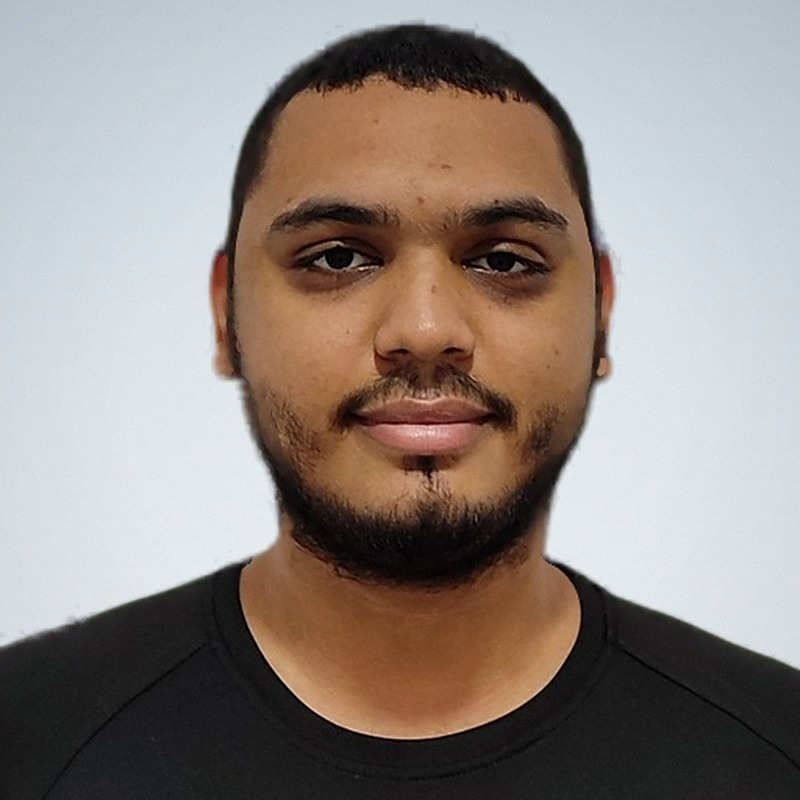
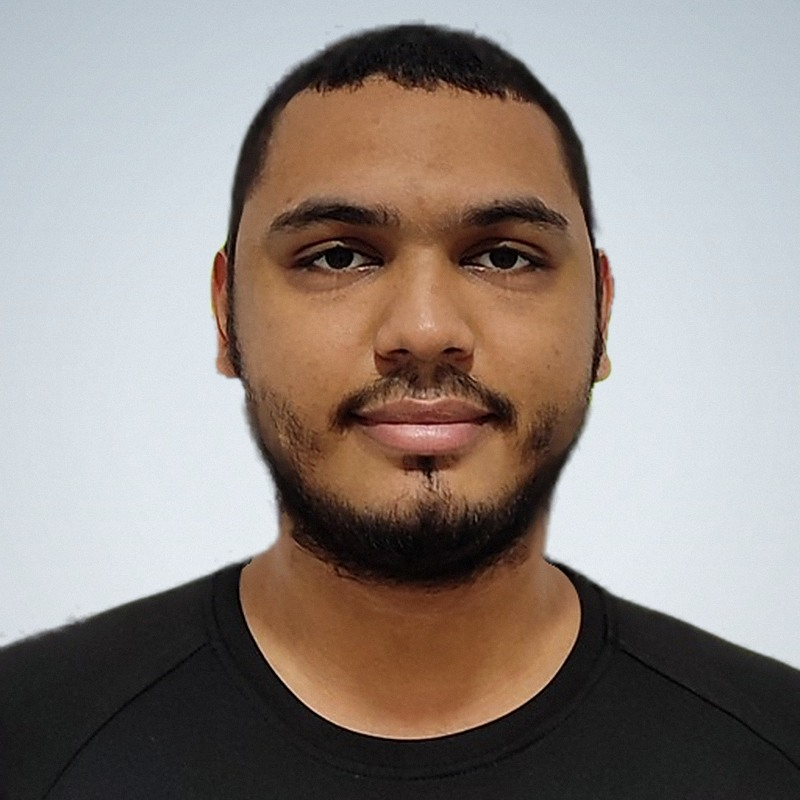
feat: skill years by start date, System/Light/Dark theme selector and retouched profile photo
- Skills: every chip now carries a start date (Jan 1 for fixed ones) so years grow
  automatically each January; exact-date chips (MCP, Claude Code, TypeSafe Jev, WhatsApp
  chatbots) tick on their own anniversary
- Theme: three-option selector (System by default, Light, Dark) with persistence;
  System follows the device live
- Profile photo: sharper ear outlines, softened dark circles and blemishes, right eye
  matched to the left; remove the unused 6 MB original
- Contact area: no functional change

diff --git a/index.html b/index.html
@@ -56,9 +56,11 @@
         </ul>
       </nav>
       <div class="header-actions">
-        <button id="theme-toggle" class="icon-btn" type="button" aria-label="Toggle color theme" data-i18n-aria="toggle_theme">
-          <i class="fas fa-moon icon-moon" aria-hidden="true"></i><i class="fas fa-sun icon-sun" aria-hidden="true"></i>
-        </button>
+        <div id="theme-group" class="theme-group" role="group" aria-label="Color theme" data-i18n-aria="theme_label">
+          <button type="button" data-theme-choice="system" aria-pressed="true" aria-label="System" title="System" data-i18n-aria="theme_system"><i class="fas fa-desktop" aria-hidden="true"></i></button>
+          <button type="button" data-theme-choice="light" aria-pressed="false" aria-label="Light" title="Light" data-i18n-aria="theme_light"><i class="fas fa-sun" aria-hidden="true"></i></button>
+          <button type="button" data-theme-choice="dark" aria-pressed="false" aria-label="Dark" title="Dark" data-i18n-aria="theme_dark"><i class="fas fa-moon" aria-hidden="true"></i></button>
+        </div>
         <select id="lang-switcher" aria-label="Language" data-i18n-aria="lang_label">
           <option value="en" data-i18n="lang_en">English</option>
           <option value="es" data-i18n="lang_es">Spanish</option>
@@ -257,14 +259,14 @@
           </p>
         </div>
         <div class="skills-grid">
-          <div class="skill-category"><h3><i class="fas fa-brain" aria-hidden="true"></i> <span data-i18n="ai_tools">AI-Assisted Tools</span></h3><ul class="chips"><li class="skill-chip level-advanced"><span class="skill-name">GitHub Copilot</span><span class="skill-years">2 <span data-i18n="years">years</span></span></li><li class="skill-chip level-advanced"><span class="skill-name">Model Context Protocol (MCP)</span><span class="skill-years" data-since="2024-11-25"><span data-num>1</span> <span data-unit data-i18n="year">year</span></span></li><li class="skill-chip level-advanced"><span class="skill-name">AI-Assisted Testing</span><span class="skill-years">2 <span data-i18n="years">years</span></span></li><li class="skill-chip level-intermediate"><span class="skill-name">LLM Testing</span><span class="skill-years">1 <span data-i18n="year">year</span></span></li><li class="skill-chip level-advanced"><span class="skill-name">Claude Code</span><span class="skill-years" data-since="2025-02-24"><span data-num>1</span> <span data-unit data-i18n="year">year</span></span></li><li class="skill-chip level-intermediate"><span class="skill-name">TypeSafe (Jev)</span><span class="skill-years" data-since="2026-09-15"><span data-num>&lt;1</span> <span data-unit data-i18n="year">year</span></span></li><li class="skill-chip level-advanced"><span class="skill-name">OpenAI API</span><span class="skill-years">3 <span data-i18n="years">years</span></span></li><li class="skill-chip level-advanced"><span class="skill-name">WhatsApp chatbots</span><span class="skill-years" data-since="2023-02-01"><span data-num>3</span> <span data-unit data-i18n="years">years</span></span></li></ul></div>
-          <div class="skill-category"><h3><i class="fas fa-robot" aria-hidden="true"></i> <span data-i18n="automation_framework">Automation framework</span></h3><ul class="chips"><li class="skill-chip level-advanced"><span class="skill-name">Playwright</span><span class="skill-years">2 <span data-i18n="years">years</span></span></li><li class="skill-chip level-advanced"><span class="skill-name">Cypress</span><span class="skill-years">3 <span data-i18n="years">years</span></span></li><li class="skill-chip level-intermediate"><span class="skill-name">Selenium</span><span class="skill-years">3 <span data-i18n="years">years</span></span></li><li class="skill-chip level-intermediate"><span class="skill-name">Appium</span><span class="skill-years">2 <span data-i18n="years">years</span></span></li><li class="skill-chip level-expert"><span class="skill-name">Page Object Model</span><span class="skill-years">4 <span data-i18n="years">years</span></span></li><li class="skill-chip level-advanced"><span class="skill-name">BDD</span><span class="skill-years">3 <span data-i18n="years">years</span></span></li></ul></div>
-          <div class="skill-category"><h3><i class="fas fa-code" aria-hidden="true"></i> <span data-i18n="programming">Programming languages</span></h3><ul class="chips"><li class="skill-chip level-advanced"><span class="skill-name">TypeScript</span><span class="skill-years">3 <span data-i18n="years">years</span></span></li><li class="skill-chip level-advanced"><span class="skill-name">JavaScript</span><span class="skill-years">4 <span data-i18n="years">years</span></span></li><li class="skill-chip level-advanced"><span class="skill-name">Python</span><span class="skill-years">3 <span data-i18n="years">years</span></span></li><li class="skill-chip level-intermediate"><span class="skill-name">Java</span><span class="skill-years">3 <span data-i18n="years">years</span></span></li><li class="skill-chip level-intermediate"><span class="skill-name">SQL</span><span class="skill-years">5 <span data-i18n="years">years</span></span></li></ul></div>
-          <div class="skill-category"><h3><i class="fas fa-cloud" aria-hidden="true"></i> <span data-i18n="ci_cloud">CI/CD and cloud</span></h3><ul class="chips"><li class="skill-chip level-advanced"><span class="skill-name">GitHub Actions</span><span class="skill-years">2 <span data-i18n="years">years</span></span></li><li class="skill-chip level-advanced"><span class="skill-name">AWS</span><span class="skill-years">3 <span data-i18n="years">years</span></span></li><li class="skill-chip level-advanced"><span class="skill-name">Google Cloud</span><span class="skill-years">3 <span data-i18n="years">years</span></span></li><li class="skill-chip level-intermediate"><span class="skill-name">Jenkins</span><span class="skill-years">2 <span data-i18n="years">years</span></span></li><li class="skill-chip level-intermediate"><span class="skill-name">Azure DevOps</span><span class="skill-years">2 <span data-i18n="years">years</span></span></li></ul></div>
-          <div class="skill-category"><h3><i class="fas fa-gauge-high" aria-hidden="true"></i> <span data-i18n="api_perf">API and performance</span></h3><ul class="chips"><li class="skill-chip level-expert"><span class="skill-name">Postman</span><span class="skill-years">5 <span data-i18n="years">years</span></span></li><li class="skill-chip level-intermediate"><span class="skill-name">Rest Assured</span><span class="skill-years">2 <span data-i18n="years">years</span></span></li><li class="skill-chip level-advanced"><span class="skill-name">JMeter</span><span class="skill-years">3 <span data-i18n="years">years</span></span></li><li class="skill-chip level-intermediate"><span class="skill-name">Jest</span><span class="skill-years">2 <span data-i18n="years">years</span></span></li></ul></div>
-          <div class="skill-category"><h3><i class="fas fa-database" aria-hidden="true"></i> <span data-i18n="databases">Databases</span></h3><ul class="chips"><li class="skill-chip level-advanced"><span class="skill-name">PostgreSQL</span><span class="skill-years">4 <span data-i18n="years">years</span></span></li><li class="skill-chip level-advanced"><span class="skill-name">MongoDB</span><span class="skill-years">3 <span data-i18n="years">years</span></span></li><li class="skill-chip level-advanced"><span class="skill-name">MySQL</span><span class="skill-years">4 <span data-i18n="years">years</span></span></li><li class="skill-chip level-advanced"><span class="skill-name">Supabase</span><span class="skill-years">2 <span data-i18n="years">years</span></span></li></ul></div>
-          <div class="skill-category"><h3><i class="fas fa-toolbox" aria-hidden="true"></i> <span data-i18n="libs_tools">Libraries and tooling</span></h3><ul class="chips"><li class="skill-chip level-advanced"><span class="skill-name">Zod</span><span class="skill-years">3 <span data-i18n="years">years</span></span></li><li class="skill-chip level-advanced"><span class="skill-name">Faker.js</span><span class="skill-years">4 <span data-i18n="years">years</span></span></li><li class="skill-chip level-intermediate"><span class="skill-name">Allure</span><span class="skill-years">3 <span data-i18n="years">years</span></span></li><li class="skill-chip level-intermediate"><span class="skill-name">Testing Library</span><span class="skill-years">2 <span data-i18n="years">years</span></span></li><li class="skill-chip level-intermediate"><span class="skill-name">Lighthouse CI</span><span class="skill-years">2 <span data-i18n="years">years</span></span></li><li class="skill-chip level-intermediate"><span class="skill-name">semantic-release</span><span class="skill-years">2 <span data-i18n="years">years</span></span></li><li class="skill-chip level-intermediate"><span class="skill-name">Husky</span><span class="skill-years">3 <span data-i18n="years">years</span></span></li></ul></div>
-          <div class="skill-category"><h3><i class="fas fa-diagram-project" aria-hidden="true"></i> <span data-i18n="mgmt_agile">Management and Agile</span></h3><ul class="chips"><li class="skill-chip level-advanced"><span class="skill-name">JIRA</span><span class="skill-years">4 <span data-i18n="years">years</span></span></li><li class="skill-chip level-advanced"><span class="skill-name">Xray</span><span class="skill-years">3 <span data-i18n="years">years</span></span></li><li class="skill-chip level-expert"><span class="skill-name">ClickUp</span><span class="skill-years">2 <span data-i18n="years">years</span></span></li><li class="skill-chip level-expert"><span class="skill-name">Notion</span><span class="skill-years">3 <span data-i18n="years">years</span></span></li><li class="skill-chip level-expert"><span class="skill-name" data-i18n="agile">Agile</span><span class="skill-years">5 <span data-i18n="years">years</span></span></li><li class="skill-chip level-advanced"><span class="skill-name">Scrum</span><span class="skill-years">5 <span data-i18n="years">years</span></span></li></ul></div>
+          <div class="skill-category"><h3><i class="fas fa-brain" aria-hidden="true"></i> <span data-i18n="ai_tools">AI-Assisted Tools</span></h3><ul class="chips"><li class="skill-chip level-advanced"><span class="skill-name">GitHub Copilot</span><span class="skill-years" data-since="2024-01-01"><span data-num>2</span> <span data-unit data-i18n="years">years</span></span></li><li class="skill-chip level-advanced"><span class="skill-name">Model Context Protocol (MCP)</span><span class="skill-years" data-since="2024-11-25"><span data-num>1</span> <span data-unit data-i18n="year">year</span></span></li><li class="skill-chip level-advanced"><span class="skill-name">AI-Assisted Testing</span><span class="skill-years" data-since="2024-01-01"><span data-num>2</span> <span data-unit data-i18n="years">years</span></span></li><li class="skill-chip level-intermediate"><span class="skill-name">LLM Testing</span><span class="skill-years" data-since="2025-01-01"><span data-num>1</span> <span data-unit data-i18n="year">year</span></span></li><li class="skill-chip level-advanced"><span class="skill-name">Claude Code</span><span class="skill-years" data-since="2025-02-24"><span data-num>1</span> <span data-unit data-i18n="year">year</span></span></li><li class="skill-chip level-intermediate"><span class="skill-name">TypeSafe (Jev)</span><span class="skill-years" data-since="2026-09-15"><span data-num>&lt;1</span> <span data-unit data-i18n="year">year</span></span></li><li class="skill-chip level-advanced"><span class="skill-name">OpenAI API</span><span class="skill-years" data-since="2023-01-01"><span data-num>3</span> <span data-unit data-i18n="years">years</span></span></li><li class="skill-chip level-advanced"><span class="skill-name">WhatsApp chatbots</span><span class="skill-years" data-since="2023-02-01"><span data-num>3</span> <span data-unit data-i18n="years">years</span></span></li></ul></div>
+          <div class="skill-category"><h3><i class="fas fa-robot" aria-hidden="true"></i> <span data-i18n="automation_framework">Automation framework</span></h3><ul class="chips"><li class="skill-chip level-advanced"><span class="skill-name">Playwright</span><span class="skill-years" data-since="2024-01-01"><span data-num>2</span> <span data-unit data-i18n="years">years</span></span></li><li class="skill-chip level-advanced"><span class="skill-name">Cypress</span><span class="skill-years" data-since="2023-01-01"><span data-num>3</span> <span data-unit data-i18n="years">years</span></span></li><li class="skill-chip level-intermediate"><span class="skill-name">Selenium</span><span class="skill-years" data-since="2023-01-01"><span data-num>3</span> <span data-unit data-i18n="years">years</span></span></li><li class="skill-chip level-intermediate"><span class="skill-name">Appium</span><span class="skill-years" data-since="2024-01-01"><span data-num>2</span> <span data-unit data-i18n="years">years</span></span></li><li class="skill-chip level-expert"><span class="skill-name">Page Object Model</span><span class="skill-years" data-since="2022-01-01"><span data-num>4</span> <span data-unit data-i18n="years">years</span></span></li><li class="skill-chip level-advanced"><span class="skill-name">BDD</span><span class="skill-years" data-since="2023-01-01"><span data-num>3</span> <span data-unit data-i18n="years">years</span></span></li></ul></div>
+          <div class="skill-category"><h3><i class="fas fa-code" aria-hidden="true"></i> <span data-i18n="programming">Programming languages</span></h3><ul class="chips"><li class="skill-chip level-advanced"><span class="skill-name">TypeScript</span><span class="skill-years" data-since="2023-01-01"><span data-num>3</span> <span data-unit data-i18n="years">years</span></span></li><li class="skill-chip level-advanced"><span class="skill-name">JavaScript</span><span class="skill-years" data-since="2022-01-01"><span data-num>4</span> <span data-unit data-i18n="years">years</span></span></li><li class="skill-chip level-advanced"><span class="skill-name">Python</span><span class="skill-years" data-since="2023-01-01"><span data-num>3</span> <span data-unit data-i18n="years">years</span></span></li><li class="skill-chip level-intermediate"><span class="skill-name">Java</span><span class="skill-years" data-since="2023-01-01"><span data-num>3</span> <span data-unit data-i18n="years">years</span></span></li><li class="skill-chip level-intermediate"><span class="skill-name">SQL</span><span class="skill-years" data-since="2021-01-01"><span data-num>5</span> <span data-unit data-i18n="years">years</span></span></li></ul></div>
+          <div class="skill-category"><h3><i class="fas fa-cloud" aria-hidden="true"></i> <span data-i18n="ci_cloud">CI/CD and cloud</span></h3><ul class="chips"><li class="skill-chip level-advanced"><span class="skill-name">GitHub Actions</span><span class="skill-years" data-since="2024-01-01"><span data-num>2</span> <span data-unit data-i18n="years">years</span></span></li><li class="skill-chip level-advanced"><span class="skill-name">AWS</span><span class="skill-years" data-since="2023-01-01"><span data-num>3</span> <span data-unit data-i18n="years">years</span></span></li><li class="skill-chip level-advanced"><span class="skill-name">Google Cloud</span><span class="skill-years" data-since="2023-01-01"><span data-num>3</span> <span data-unit data-i18n="years">years</span></span></li><li class="skill-chip level-intermediate"><span class="skill-name">Jenkins</span><span class="skill-years" data-since="2024-01-01"><span data-num>2</span> <span data-unit data-i18n="years">years</span></span></li><li class="skill-chip level-intermediate"><span class="skill-name">Azure DevOps</span><span class="skill-years" data-since="2024-01-01"><span data-num>2</span> <span data-unit data-i18n="years">years</span></span></li></ul></div>
+          <div class="skill-category"><h3><i class="fas fa-gauge-high" aria-hidden="true"></i> <span data-i18n="api_perf">API and performance</span></h3><ul class="chips"><li class="skill-chip level-expert"><span class="skill-name">Postman</span><span class="skill-years" data-since="2021-01-01"><span data-num>5</span> <span data-unit data-i18n="years">years</span></span></li><li class="skill-chip level-intermediate"><span class="skill-name">Rest Assured</span><span class="skill-years" data-since="2024-01-01"><span data-num>2</span> <span data-unit data-i18n="years">years</span></span></li><li class="skill-chip level-advanced"><span class="skill-name">JMeter</span><span class="skill-years" data-since="2023-01-01"><span data-num>3</span> <span data-unit data-i18n="years">years</span></span></li><li class="skill-chip level-intermediate"><span class="skill-name">Jest</span><span class="skill-years" data-since="2024-01-01"><span data-num>2</span> <span data-unit data-i18n="years">years</span></span></li></ul></div>
+          <div class="skill-category"><h3><i class="fas fa-database" aria-hidden="true"></i> <span data-i18n="databases">Databases</span></h3><ul class="chips"><li class="skill-chip level-advanced"><span class="skill-name">PostgreSQL</span><span class="skill-years" data-since="2022-01-01"><span data-num>4</span> <span data-unit data-i18n="years">years</span></span></li><li class="skill-chip level-advanced"><span class="skill-name">MongoDB</span><span class="skill-years" data-since="2023-01-01"><span data-num>3</span> <span data-unit data-i18n="years">years</span></span></li><li class="skill-chip level-advanced"><span class="skill-name">MySQL</span><span class="skill-years" data-since="2022-01-01"><span data-num>4</span> <span data-unit data-i18n="years">years</span></span></li><li class="skill-chip level-advanced"><span class="skill-name">Supabase</span><span class="skill-years" data-since="2024-01-01"><span data-num>2</span> <span data-unit data-i18n="years">years</span></span></li></ul></div>
+          <div class="skill-category"><h3><i class="fas fa-toolbox" aria-hidden="true"></i> <span data-i18n="libs_tools">Libraries and tooling</span></h3><ul class="chips"><li class="skill-chip level-advanced"><span class="skill-name">Zod</span><span class="skill-years" data-since="2023-01-01"><span data-num>3</span> <span data-unit data-i18n="years">years</span></span></li><li class="skill-chip level-advanced"><span class="skill-name">Faker.js</span><span class="skill-years" data-since="2022-01-01"><span data-num>4</span> <span data-unit data-i18n="years">years</span></span></li><li class="skill-chip level-intermediate"><span class="skill-name">Allure</span><span class="skill-years" data-since="2023-01-01"><span data-num>3</span> <span data-unit data-i18n="years">years</span></span></li><li class="skill-chip level-intermediate"><span class="skill-name">Testing Library</span><span class="skill-years" data-since="2024-01-01"><span data-num>2</span> <span data-unit data-i18n="years">years</span></span></li><li class="skill-chip level-intermediate"><span class="skill-name">Lighthouse CI</span><span class="skill-years" data-since="2024-01-01"><span data-num>2</span> <span data-unit data-i18n="years">years</span></span></li><li class="skill-chip level-intermediate"><span class="skill-name">semantic-release</span><span class="skill-years" data-since="2024-01-01"><span data-num>2</span> <span data-unit data-i18n="years">years</span></span></li><li class="skill-chip level-intermediate"><span class="skill-name">Husky</span><span class="skill-years" data-since="2023-01-01"><span data-num>3</span> <span data-unit data-i18n="years">years</span></span></li></ul></div>
+          <div class="skill-category"><h3><i class="fas fa-diagram-project" aria-hidden="true"></i> <span data-i18n="mgmt_agile">Management and Agile</span></h3><ul class="chips"><li class="skill-chip level-advanced"><span class="skill-name">JIRA</span><span class="skill-years" data-since="2022-01-01"><span data-num>4</span> <span data-unit data-i18n="years">years</span></span></li><li class="skill-chip level-advanced"><span class="skill-name">Xray</span><span class="skill-years" data-since="2023-01-01"><span data-num>3</span> <span data-unit data-i18n="years">years</span></span></li><li class="skill-chip level-expert"><span class="skill-name">ClickUp</span><span class="skill-years" data-since="2024-01-01"><span data-num>2</span> <span data-unit data-i18n="years">years</span></span></li><li class="skill-chip level-expert"><span class="skill-name">Notion</span><span class="skill-years" data-since="2023-01-01"><span data-num>3</span> <span data-unit data-i18n="years">years</span></span></li><li class="skill-chip level-expert"><span class="skill-name" data-i18n="agile">Agile</span><span class="skill-years" data-since="2021-01-01"><span data-num>5</span> <span data-unit data-i18n="years">years</span></span></li><li class="skill-chip level-advanced"><span class="skill-name">Scrum</span><span class="skill-years" data-since="2021-01-01"><span data-num>5</span> <span data-unit data-i18n="years">years</span></span></li></ul></div>
         </div>
 
         <div class="testing">

diff --git a/scripts.js b/scripts.js
@@ -100,16 +100,27 @@
   }
 
   /* ----------------------------------------------------------------- tema */
+  // Tres opciones: Sistema (por defecto, sigue al dispositivo), Claro y Oscuro.
   function initTheme() {
-    const button = $("#theme-toggle");
-    if (!button) return;
-    const prefersDark = window.matchMedia("(prefers-color-scheme: dark)");
-    button.addEventListener("click", () => {
-      const current = root.dataset.theme || (prefersDark.matches ? "dark" : "light");
-      const next = current === "dark" ? "light" : "dark";
-      root.dataset.theme = next;
-      storage.set("theme", next);
-    });
+    const group = $("#theme-group");
+    if (!group) return;
+    const buttons = $$("[data-theme-choice]", group);
+    const stored = storage.get("theme");
+    let choice = stored === "light" || stored === "dark" ? stored : "system";
+
+    const apply = (value) => {
+      choice = value;
+      if (value === "system") {
+        root.removeAttribute("data-theme"); // sin atributo, manda prefers-color-scheme
+      } else {
+        root.dataset.theme = value;
+      }
+      storage.set("theme", value);
+      buttons.forEach((button) => button.setAttribute("aria-pressed", String(button.dataset.themeChoice === value)));
+    };
+
+    buttons.forEach((button) => button.addEventListener("click", () => apply(button.dataset.themeChoice)));
+    apply(choice);
   }
 
   /* ----------------------------------------------------------------- menú */

diff --git a/styles.css b/styles.css
@@ -371,28 +371,6 @@ a:hover {
   display: none;
 }
 
-.icon-sun {
-  display: none;
-}
-
-:root[data-theme="dark"] .icon-moon {
-  display: none;
-}
-
-:root[data-theme="dark"] .icon-sun {
-  display: inline;
-}
-
-@media (prefers-color-scheme: dark) {
-  :root:not([data-theme="light"]) .icon-moon {
-    display: none;
-  }
-
-  :root:not([data-theme="light"]) .icon-sun {
-    display: inline;
-  }
-}
-
 @media (max-width: 1179.98px) {
   .mobile-menu {
     display: inline-grid;
@@ -2082,4 +2060,42 @@ html.i18n-pending body {
 .form-privacy {
   font-size: 0.82rem;
   color: var(--ink-2);
+}
+
+/* ---------- Selector de tema: Sistema / Claro / Oscuro ---------- */
+.theme-group {
+  display: inline-flex;
+  height: 40px;
+  overflow: hidden;
+  border: 1px solid var(--line-strong);
+  border-radius: var(--radius-sm);
+  background: var(--surface);
+}
+
+.theme-group button {
+  width: 36px;
+  padding: 0;
+  border: 0;
+  background: transparent;
+  color: var(--ink-2);
+  font-size: 0.9rem;
+  cursor: pointer;
+  transition: background 0.15s ease, color 0.15s ease;
+}
+
+.theme-group button + button {
+  border-left: 1px solid var(--line);
+}
+
+.theme-group button:hover {
+  color: var(--ink);
+}
+
+.theme-group button[aria-pressed="true"] {
+  background: var(--accent-soft);
+  color: var(--accent);
+}
+
+.theme-group button:focus-visible {
+  outline-offset: -3px;
 }

diff --git a/i18n/es.js b/i18n/es.js
@@ -244,8 +244,11 @@ window.I18N.es = {
   "test_suite": "Suite de pruebas",
   "testing_coverage_intro": "Haz clic en un tipo para ver sus técnicas.",
   "testing_experience": "Tipos de prueba",
+  "theme_dark": "Oscuro",
+  "theme_label": "Tema de color",
+  "theme_light": "Claro",
+  "theme_system": "Sistema",
   "toggle_menu": "Abrir menú",
-  "toggle_theme": "Cambiar tema de color",
   "unit_testing": "Pruebas unitarias",
   "usability_testing": "Pruebas de usabilidad",
   "use_cases": "Casos de uso",
